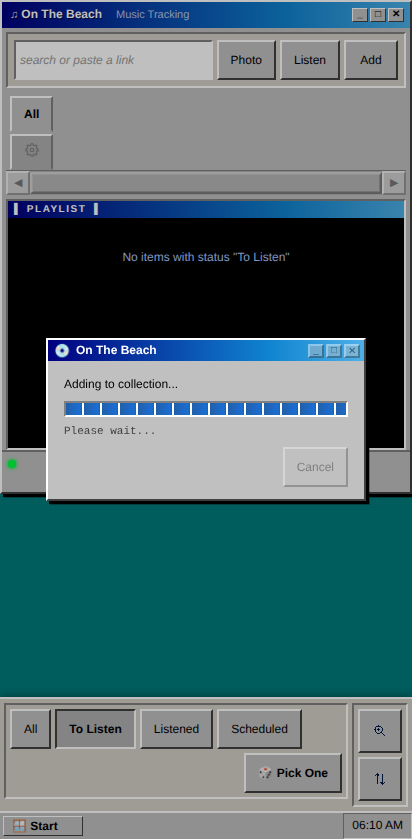
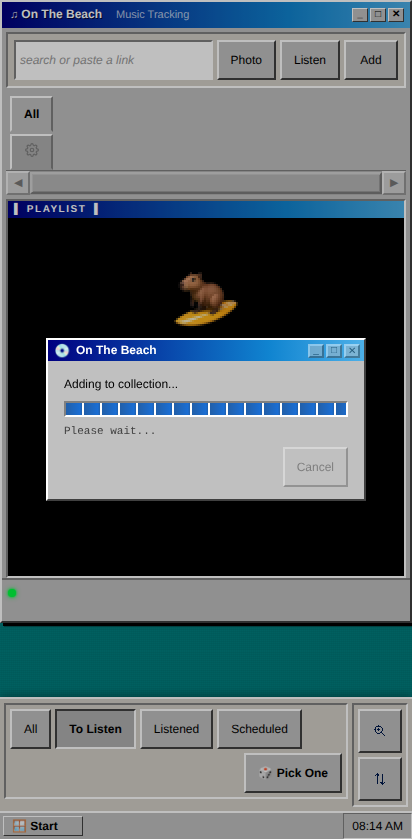
Experiment: give empty states a face and a next step
Empty playlist states were a bare sentence floating in the dark. They
now show the surfing-capybara mascot (pixelated, on brand), a mono
headline with a blinking DOS cursor (disabled under
prefers-reduced-motion), and a filter-specific actionable hint:

- All:       "No music tracked yet." / paste a link or Start menu
- To Listen: "Nothing in the queue — all caught up."
- Listened:  "Nothing logged as listened yet." / status dropdown hint
- Scheduled: "No reminders scheduled." / set from a release page
- Search:    unchanged headline + "Try fewer words, or switch filters."

getEmptyStateHint() joins getEmptyStateMessage() in the domain module
with unit coverage; SSR and client share the same template. Only the
mobile add-loading-dialog baseline changed (the empty state is visible
behind that dialog).

Tests: typecheck, 437 unit, 32 e2e, 6 visual; build clean.

https://claude.ai/code/session_01Gfetuacbxt4EeDHo5px3yP

Changed region(s): [[0.0, 0.5268, 1.0, 0.7747], [0.2913, 0.2789, 0.699, 0.4029], [0.8447, 0.9607, 0.9903, 0.9917]]

diff --git a/src/styles/main.css b/src/styles/main.css
@@ -1074,10 +1074,56 @@ select.input {
 
 .empty-state {
   text-align: center;
-  padding: 32px var(--space-4);
+  padding: 48px var(--space-4);
   color: var(--playlist-text);
   font-size: var(--text-base);
   background: var(--playlist-bg);
+  display: flex;
+  flex-direction: column;
+  align-items: center;
+  gap: var(--space-4);
+}
+
+.empty-state__mascot {
+  width: 64px;
+  height: 64px;
+  image-rendering: pixelated;
+}
+
+.empty-state__headline {
+  margin: 0;
+  font-family: var(--font-mono);
+  font-size: var(--text-md);
+}
+
+.empty-state__cursor {
+  display: inline-block;
+  width: 8px;
+  height: 1em;
+  margin-left: 4px;
+  vertical-align: text-bottom;
+  background: var(--led-green, #4ade80);
+  animation: empty-cursor-blink 1.1s steps(2, jump-none) infinite;
+}
+
+.empty-state__hint {
+  margin: 0;
+  opacity: 0.65;
+}
+
+@keyframes empty-cursor-blink {
+  0% {
+    opacity: 1;
+  }
+  100% {
+    opacity: 0;
+  }
+}
+
+@media (prefers-reduced-motion: reduce) {
+  .empty-state__cursor {
+    animation: none;
+  }
 }
 
 /* ═══════════════════════════════════════════════════

diff --git a/src/ui/domain/music-list.ts b/src/ui/domain/music-list.ts
@@ -48,14 +48,42 @@ export function getEmptyStateMessage(currentFilter: FilterSelection, searchQuery
   }
 
   if (currentFilter === "all") {
-    return "No music tracked yet. Paste a link above to get started!";
+    return "No music tracked yet.";
   }
 
   if (currentFilter === "scheduled") {
-    return "No scheduled items.";
+    return "No reminders scheduled.";
+  }
+
+  if (currentFilter === "to-listen") {
+    return "Nothing in the queue \u2014 all caught up.";
+  }
+
+  if (currentFilter === "listened") {
+    return "Nothing logged as listened yet.";
   }
 
   const labels = STATUS_LABELS as Partial<Record<ListenStatus, string>>;
   const label = labels[currentFilter] ?? currentFilter;
   return `No items with status "${label}"`;
+}
+
+/** Actionable second line for the empty state; null when there's nothing useful to add. */
+export function getEmptyStateHint(currentFilter: FilterSelection, searchQuery = ""): string | null {
+  if (searchQuery.trim()) {
+    return "Try fewer words, or switch filters.";
+  }
+
+  switch (currentFilter) {
+    case "all":
+      return "Paste a link above, or hit Start \u2192 Add a release.";
+    case "to-listen":
+      return "Paste a link above to queue something new.";
+    case "listened":
+      return "Mark releases listened from the status dropdown.";
+    case "scheduled":
+      return "Set a reminder from any release page.";
+    default:
+      return null;
+  }
 }

diff --git a/tests/unit/app-domain.test.ts b/tests/unit/app-domain.test.ts
@@ -7,6 +7,7 @@ import {
 } from "../../src/ui/domain/add-form";
 import {
   buildMusicItemFilters,
+  getEmptyStateHint,
   getEmptyStateMessage,
   buildContextKey,
   applyOrder,
@@ -126,6 +127,15 @@ describe("app domain helpers", () => {
   it("builds the same empty-state messages used by the UI", () => {
     expect(getEmptyStateMessage("all")).toContain("No music tracked yet");
     expect(getEmptyStateMessage("all", " ambient ")).toContain('No matches for "ambient"');
+    expect(getEmptyStateMessage("to-listen")).toContain("all caught up");
+    expect(getEmptyStateMessage("scheduled")).toContain("No reminders scheduled");
+  });
+
+  it("pairs empty states with actionable hints", () => {
+    expect(getEmptyStateHint("all")).toContain("Add a release");
+    expect(getEmptyStateHint("all", "ambient")).toContain("switch filters");
+    expect(getEmptyStateHint("scheduled")).toContain("release page");
+    expect(getEmptyStateHint("looking-for-price-drop" as never)).toBeNull();
   });
 
   it("returns scan alert messages for known error types", () => {

diff --git a/src/ui/view/templates.ts b/src/ui/view/templates.ts
@@ -2,7 +2,7 @@ import Case from "case";
 import type { LinkReleaseCandidate, MusicItemFull, StackWithCount } from "../../types";
 import { renderStarRatingControl } from "../components/star-rating";
 import type { FilterSelection } from "../domain/music-list";
-import { getEmptyStateMessage } from "../domain/music-list";
+import { getEmptyStateHint, getEmptyStateMessage } from "../domain/music-list";
 import { STATUS_LABELS } from "../domain/status";
 
 export function renderMusicList(
@@ -12,9 +12,12 @@ export function renderMusicList(
 ): string {
   if (items.length === 0) {
     const message = escapeHtml(getEmptyStateMessage(currentFilter, searchQuery));
+    const hint = getEmptyStateHint(currentFilter, searchQuery);
     return `
       <div class="empty-state">
-        <p>${message}</p>
+        <img class="empty-state__mascot" src="/favicon-32x32.png" alt="" width="64" height="64" />
+        <p class="empty-state__headline">${message}<span class="empty-state__cursor" aria-hidden="true"></span></p>
+        ${hint ? `<p class="empty-state__hint">${escapeHtml(hint)}</p>` : ""}
       </div>
     `;
   }